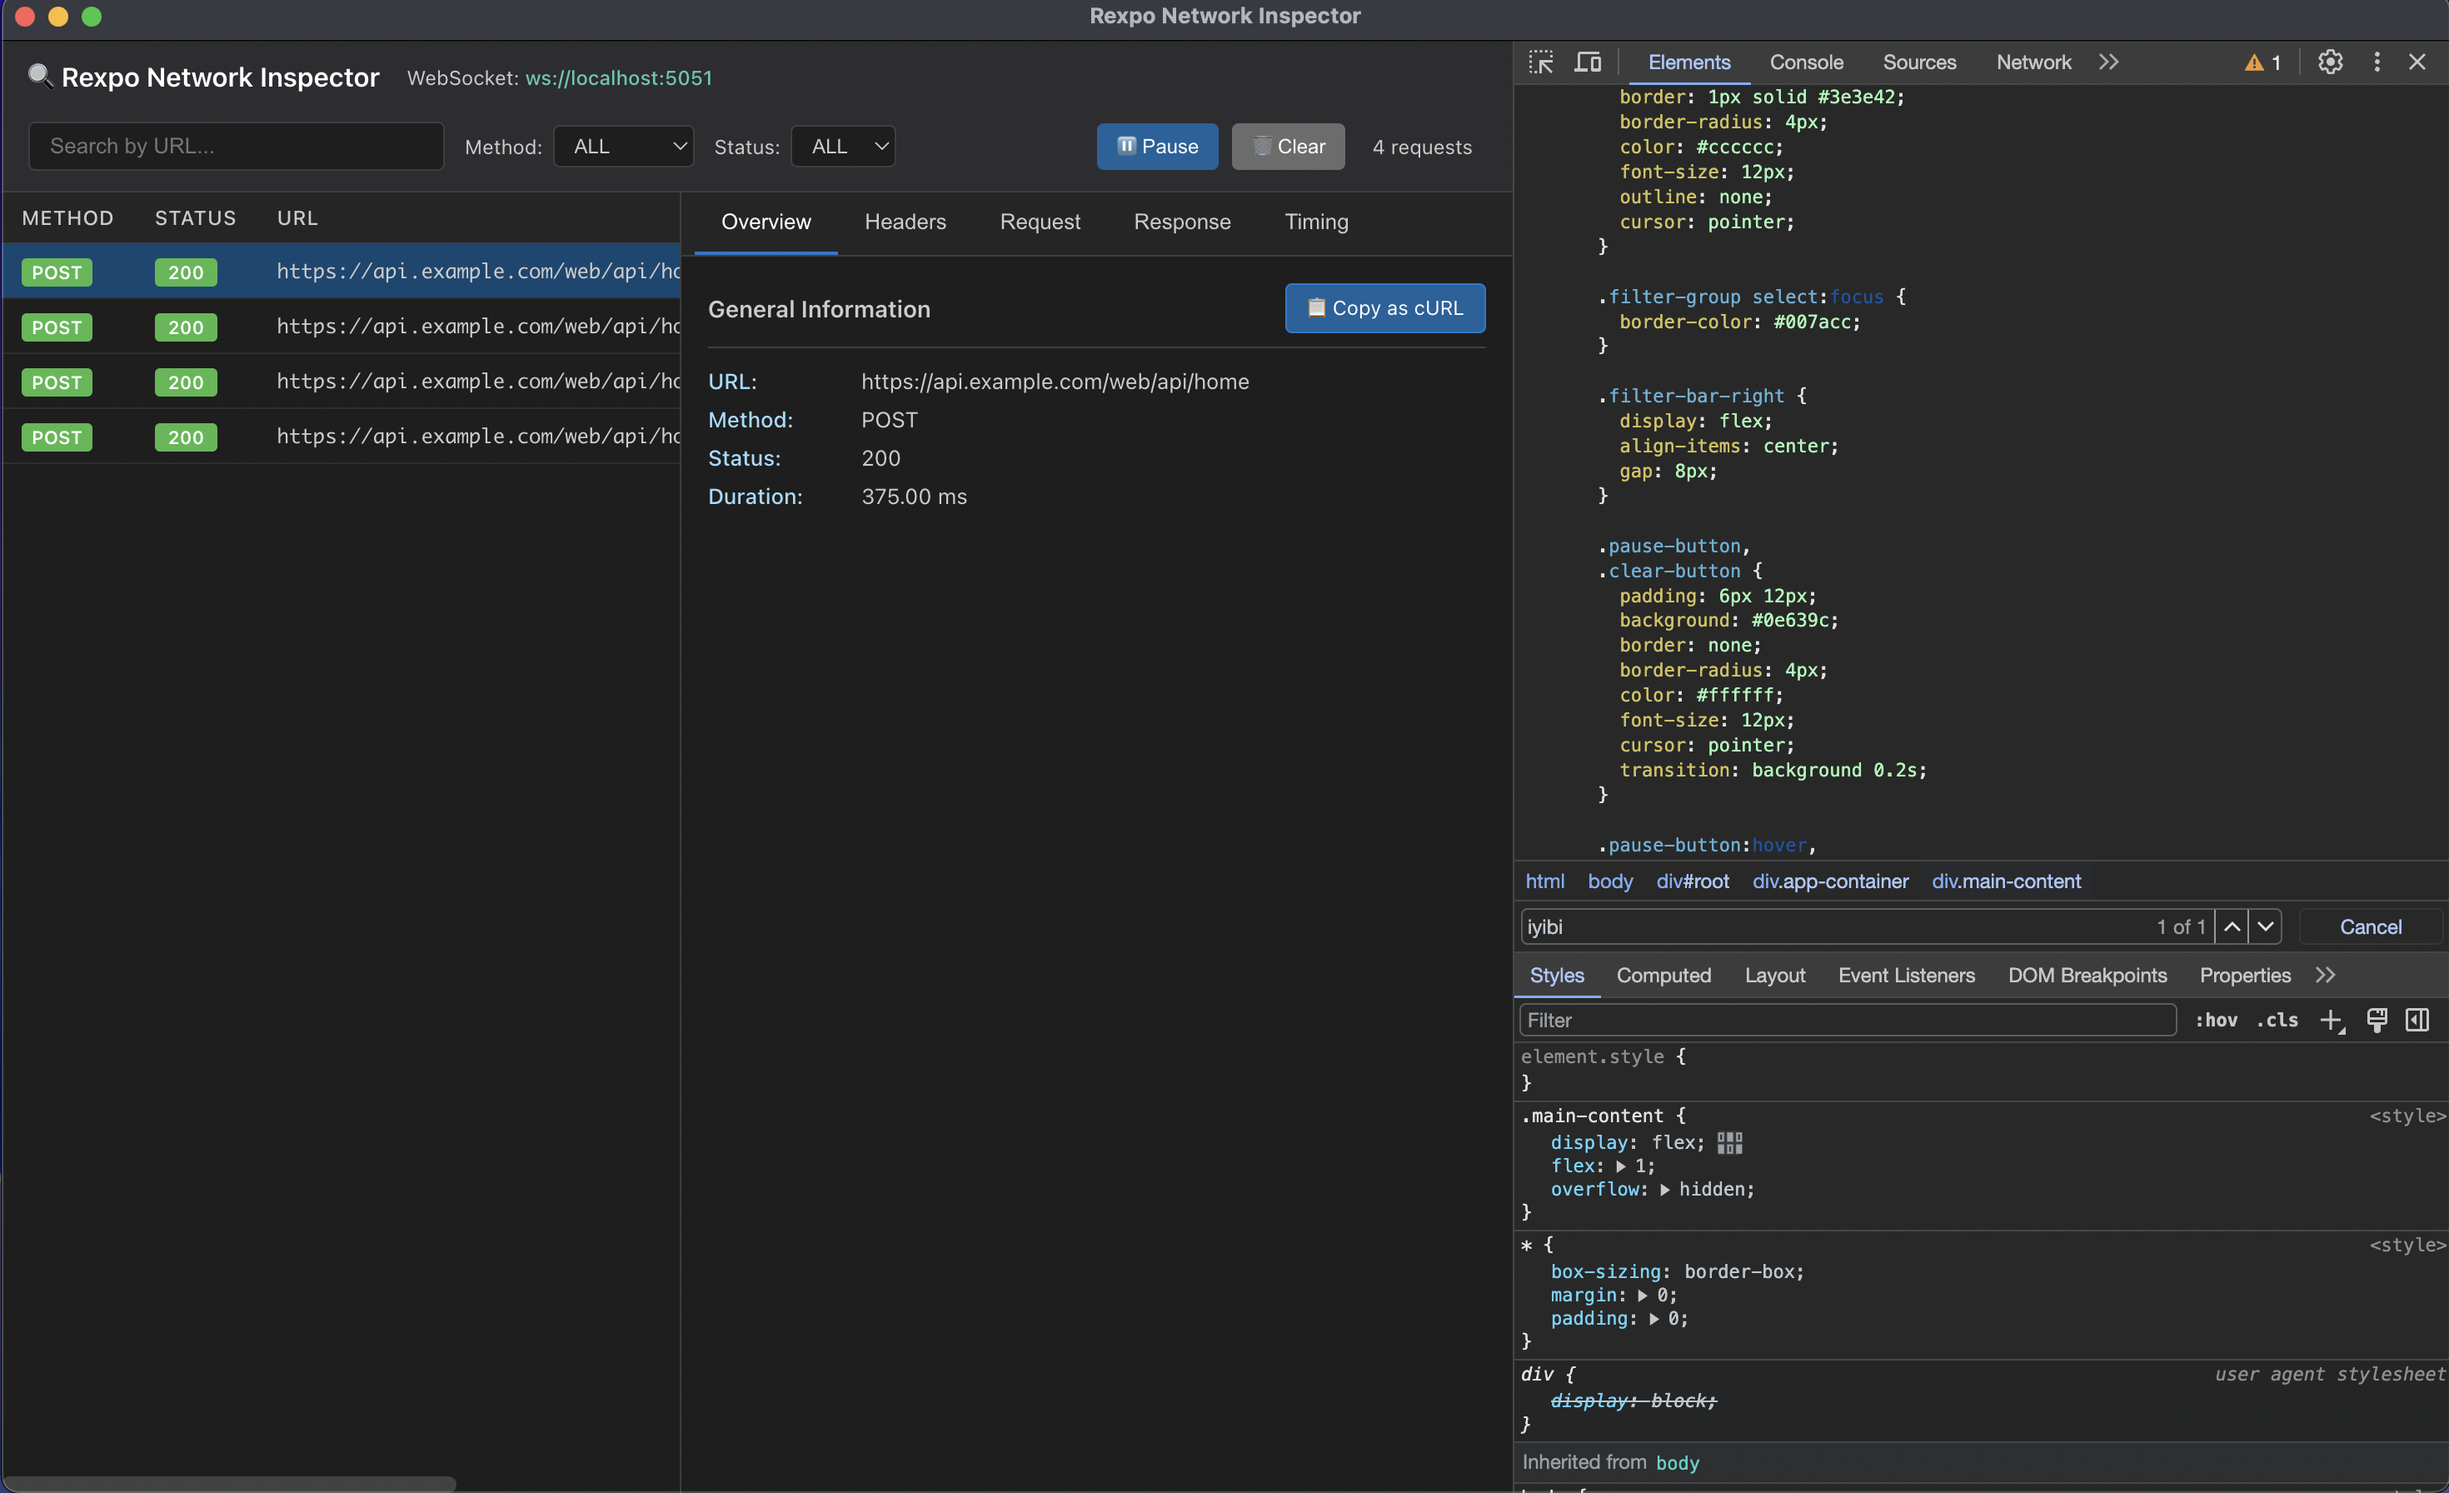
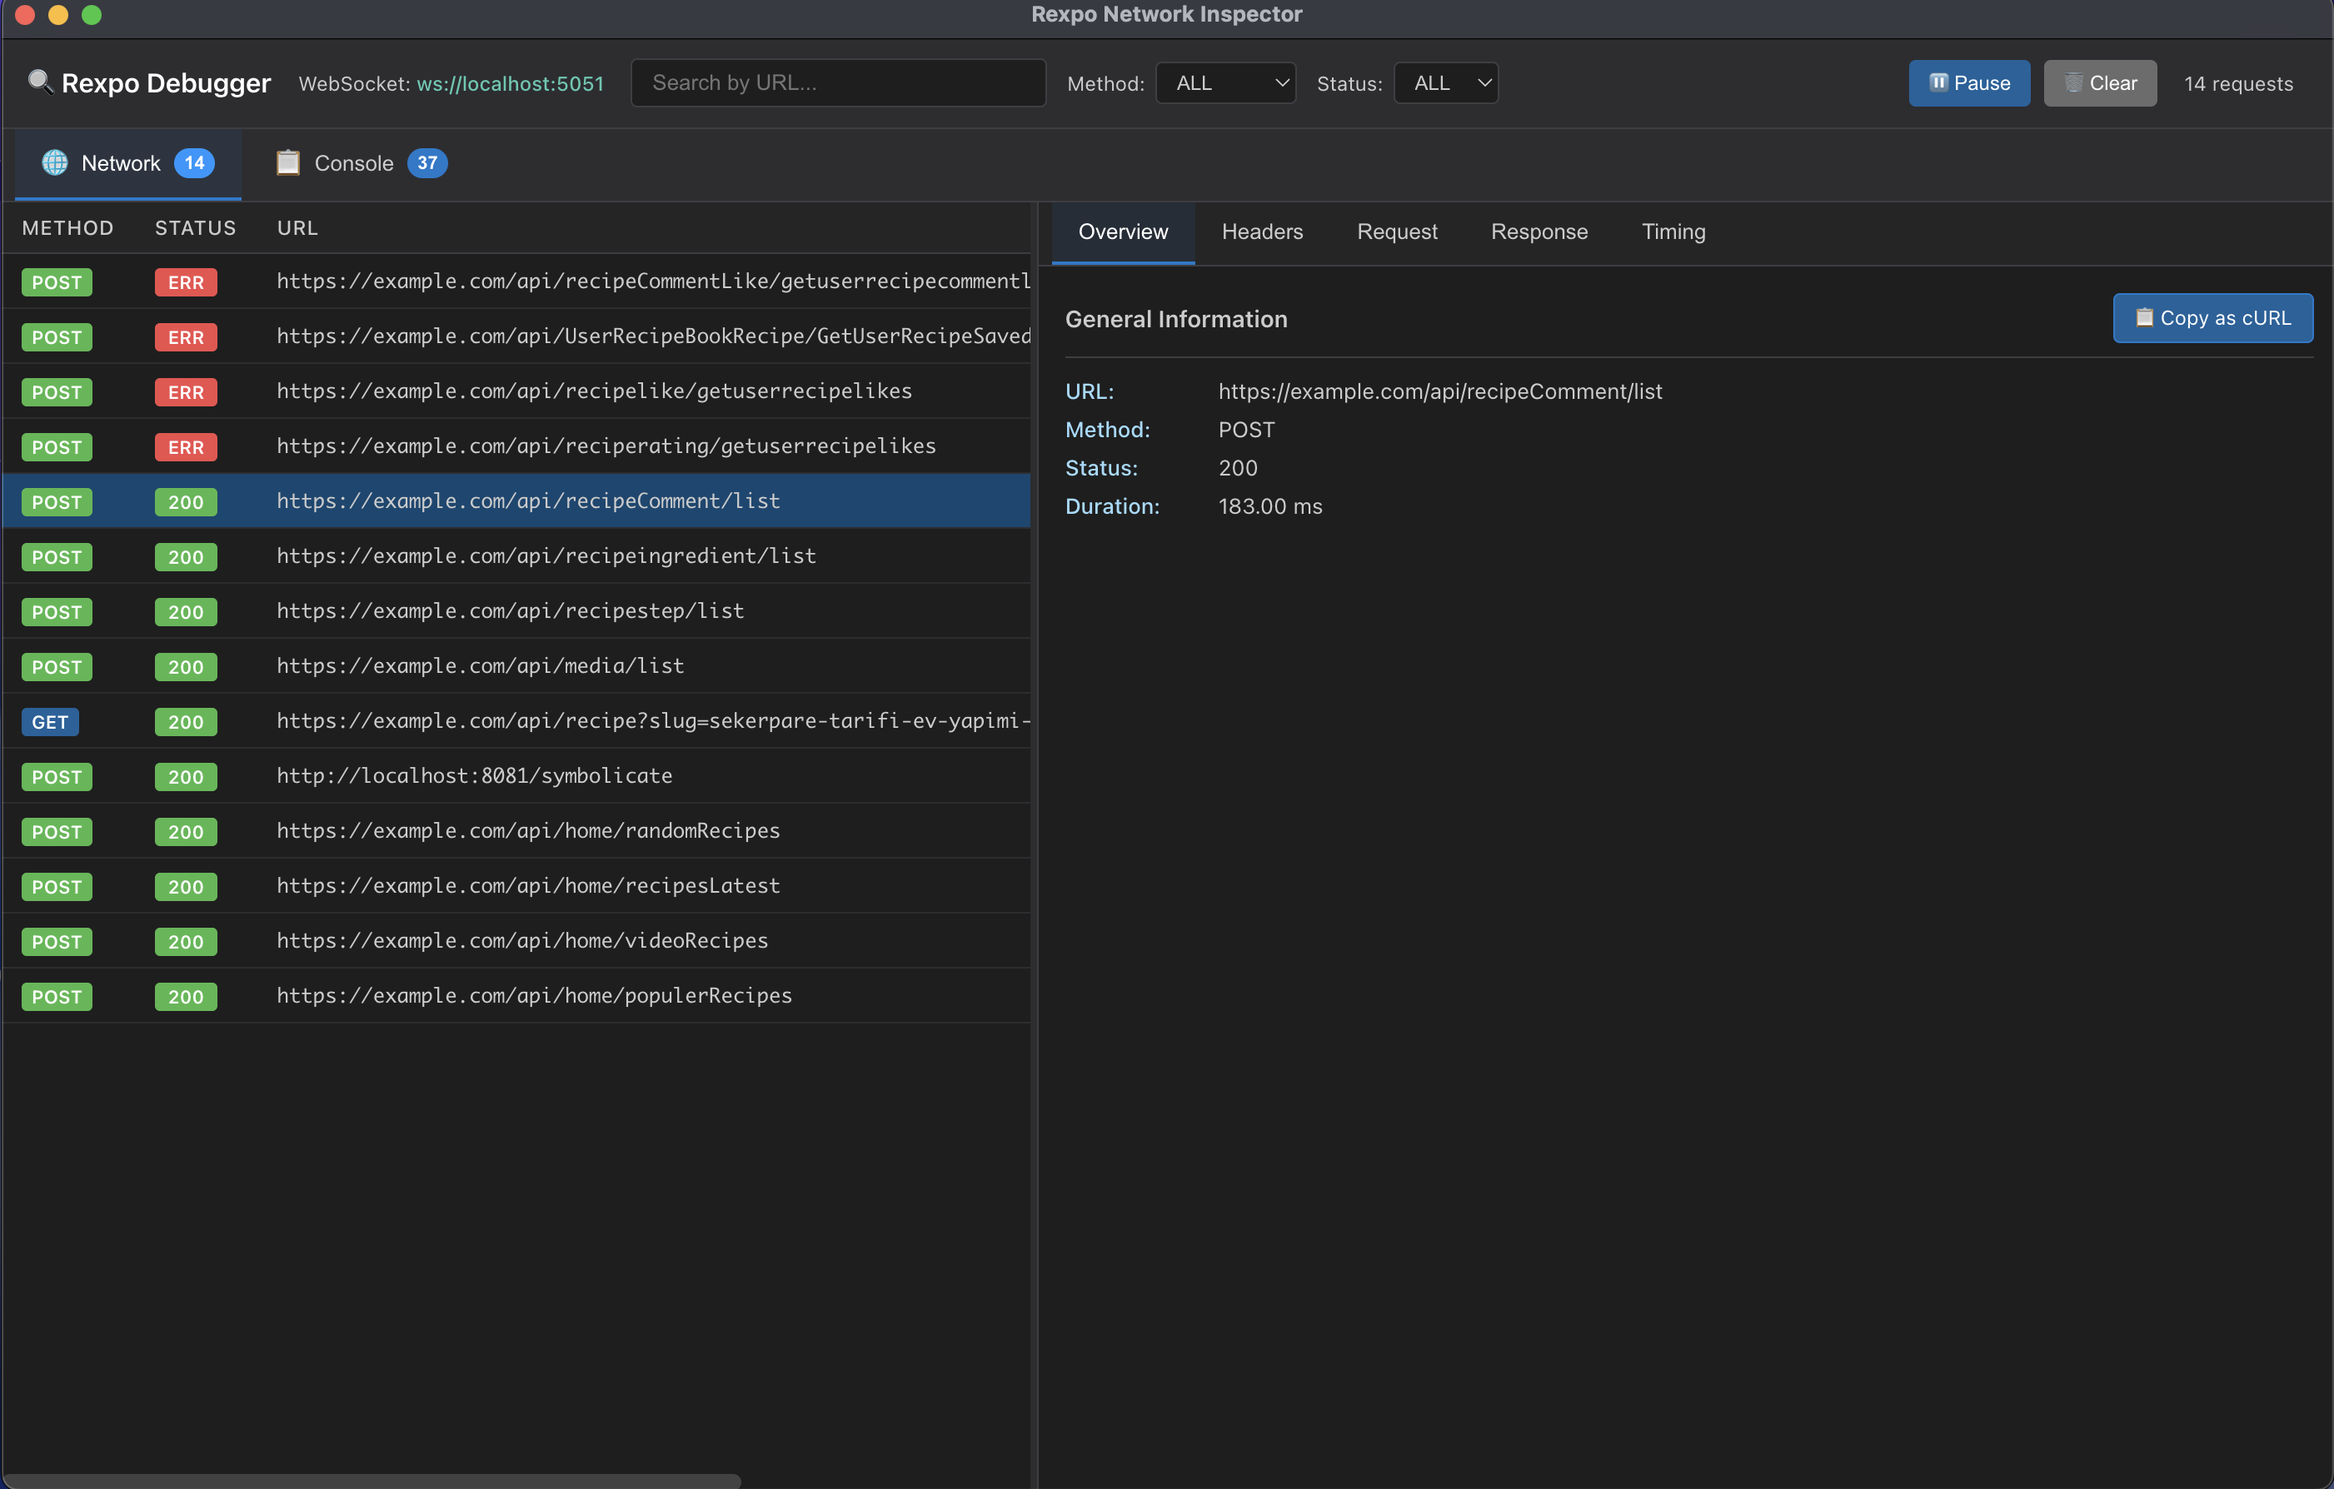
feat: implement resizable panel divider

diff --git a/renderer/App.tsx b/renderer/App.tsx
@@ -1,4 +1,4 @@
-import React from "react";
+import React, { useState, useEffect, useRef, useCallback } from "react";
 import { NetworkProvider, useNetwork } from "./state/NetworkContext";
 import { FilterBar } from "./components/FilterBar";
 import { NetworkTable } from "./components/NetworkTable";
@@ -7,8 +7,79 @@ import { ConsoleTable } from "./components/ConsoleTable";
 import { ConsoleDetails } from "./components/ConsoleDetails";
 import "./App.css";
 
+const PANEL_WIDTH_STORAGE_KEY = "rexpo-debugger-panel-width";
+const MIN_LEFT_PANEL_WIDTH = 300;
+const MIN_RIGHT_PANEL_WIDTH = 300;
+
 function AppContent() {
   const { state, dispatch } = useNetwork();
+  const [leftPanelWidth, setLeftPanelWidth] = useState<number>(() => {
+    const saved = localStorage.getItem(PANEL_WIDTH_STORAGE_KEY);
+    return saved ? parseInt(saved, 10) : 50; // Default 50% of viewport
+  });
+  const [isDragging, setIsDragging] = useState(false);
+  const mainContentRef = useRef<HTMLDivElement>(null);
+  const startXRef = useRef<number>(0);
+  const startWidthRef = useRef<number>(0);
+
+  // Save panel width to localStorage
+  useEffect(() => {
+    localStorage.setItem(PANEL_WIDTH_STORAGE_KEY, leftPanelWidth.toString());
+  }, [leftPanelWidth]);
+
+  const handleMouseDown = useCallback((e: React.MouseEvent) => {
+    e.preventDefault();
+    setIsDragging(true);
+    startXRef.current = e.clientX;
+    if (mainContentRef.current) {
+      const containerWidth = mainContentRef.current.offsetWidth;
+      startWidthRef.current = (leftPanelWidth / 100) * containerWidth;
+    }
+  }, [leftPanelWidth]);
+
+  const handleMouseMove = useCallback((e: MouseEvent) => {
+    if (!isDragging || !mainContentRef.current) return;
+
+    const containerWidth = mainContentRef.current.offsetWidth;
+    const deltaX = e.clientX - startXRef.current;
+    const newWidth = startWidthRef.current + deltaX;
+
+    // Calculate min and max widths in pixels
+    const minLeftWidth = MIN_LEFT_PANEL_WIDTH;
+    const maxLeftWidth = containerWidth - MIN_RIGHT_PANEL_WIDTH;
+
+    // Clamp the width
+    const clampedWidth = Math.max(minLeftWidth, Math.min(maxLeftWidth, newWidth));
+    
+    // Convert to percentage
+    const newPercentage = (clampedWidth / containerWidth) * 100;
+    setLeftPanelWidth(newPercentage);
+  }, [isDragging]);
+
+  const handleMouseUp = useCallback(() => {
+    setIsDragging(false);
+  }, []);
+
+  useEffect(() => {
+    if (isDragging) {
+      document.addEventListener("mousemove", handleMouseMove);
+      document.addEventListener("mouseup", handleMouseUp);
+      document.body.style.cursor = "col-resize";
+      document.body.style.userSelect = "none";
+    } else {
+      document.removeEventListener("mousemove", handleMouseMove);
+      document.removeEventListener("mouseup", handleMouseUp);
+      document.body.style.cursor = "";
+      document.body.style.userSelect = "";
+    }
+
+    return () => {
+      document.removeEventListener("mousemove", handleMouseMove);
+      document.removeEventListener("mouseup", handleMouseUp);
+      document.body.style.cursor = "";
+      document.body.style.userSelect = "";
+    };
+  }, [isDragging, handleMouseMove, handleMouseUp]);
 
   return (
       <div className="app-container">
@@ -39,11 +110,21 @@ function AppContent() {
       </div>
 
       {/* Main Content */}
-        <div className="main-content">
-          <div className="left-panel">
+        <div className="main-content" ref={mainContentRef}>
+          <div 
+            className="left-panel"
+            style={{ width: `${leftPanelWidth}%` }}
+          >
           {state.activeTab === "network" ? <NetworkTable /> : <ConsoleTable />}
           </div>
-          <div className="right-panel">
+          <div 
+            className={`resizer ${isDragging ? "dragging" : ""}`}
+            onMouseDown={handleMouseDown}
+          />
+          <div 
+            className="right-panel"
+            style={{ width: `${100 - leftPanelWidth}%` }}
+          >
           {state.activeTab === "network" ? <RequestDetails /> : <ConsoleDetails />}
         </div>
       </div>

diff --git a/renderer/App.css b/renderer/App.css
@@ -95,18 +95,36 @@ body {
 }
 
 .left-panel {
-  flex: 1;
   display: flex;
   flex-direction: column;
   overflow: hidden;
-  min-width: 400px;
+  min-width: 300px;
+  flex-shrink: 0;
 }
 
 .right-panel {
-  width: 500px;
   display: flex;
   flex-direction: column;
   overflow: hidden;
+  min-width: 300px;
+  flex-shrink: 0;
+}
+
+.resizer {
+  width: 4px;
+  background: #2d2d30;
+  cursor: col-resize;
+  flex-shrink: 0;
+  transition: background 0.15s ease;
+  position: relative;
+}
+
+.resizer:hover {
+  background: #007acc;
+}
+
+.resizer.dragging {
+  background: #007acc;
 }
 
 ::-webkit-scrollbar {
